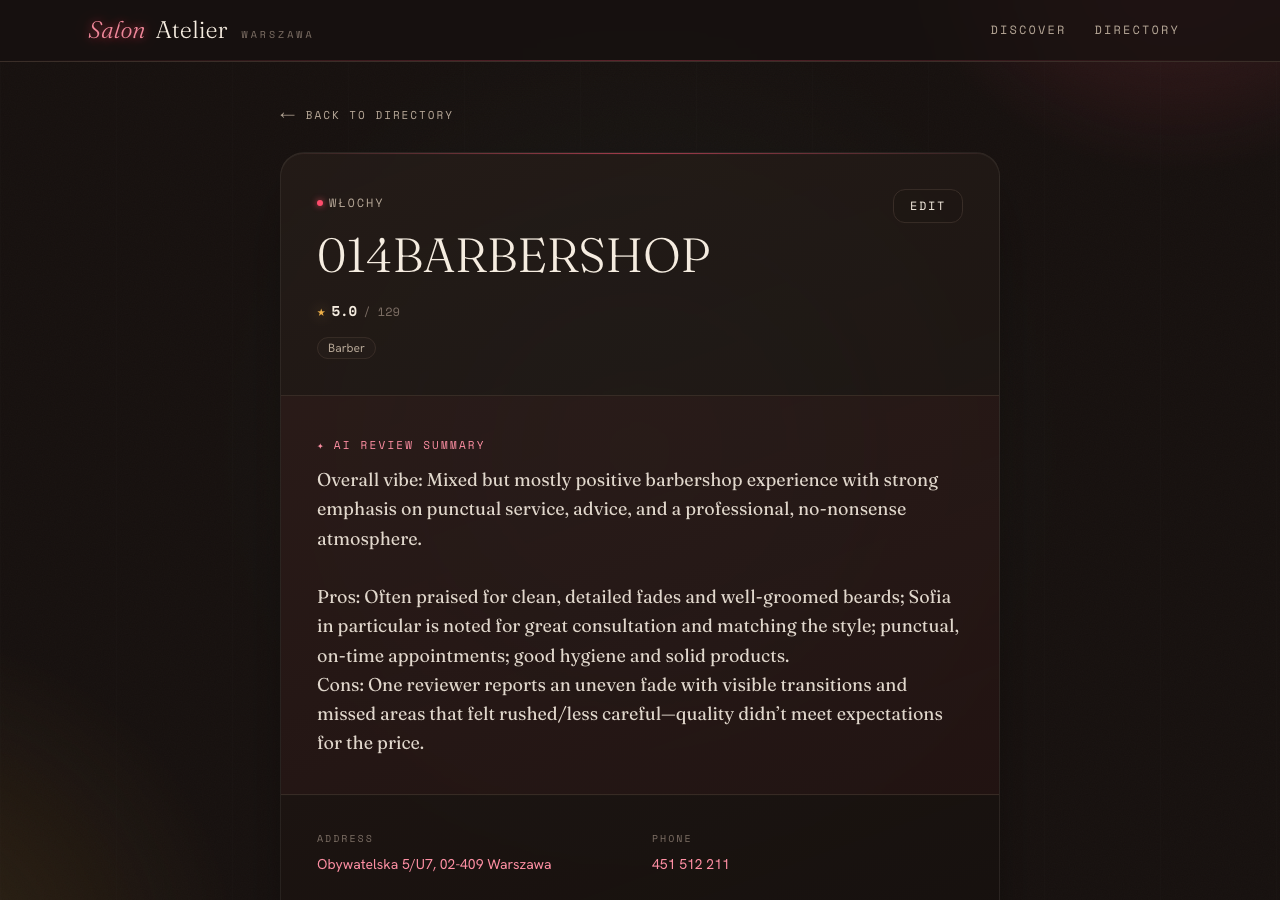
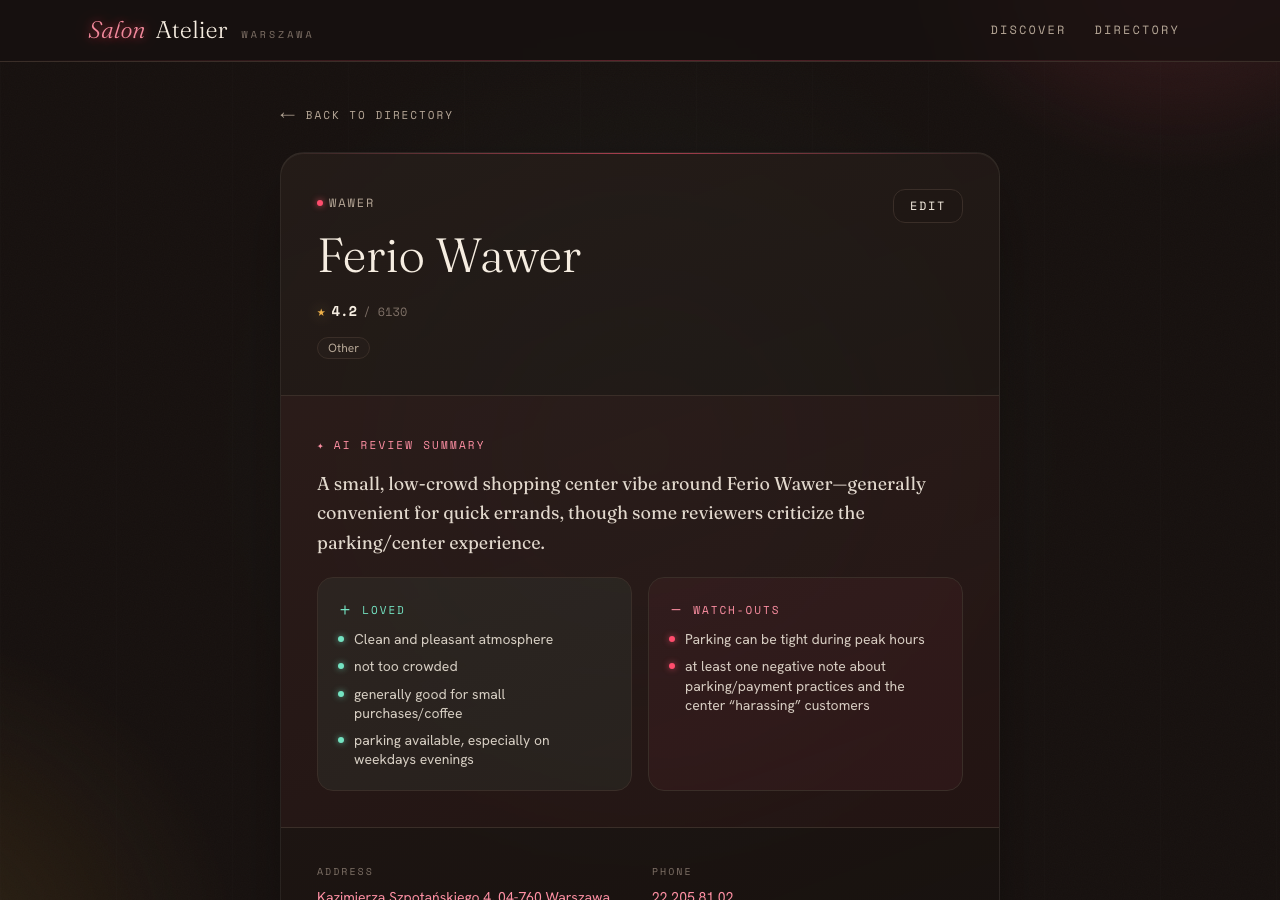
tiles fixed and pros and cons redone

diff --git a/frontend/components/ReviewSummary.tsx b/frontend/components/ReviewSummary.tsx
@@ -1,0 +1,77 @@
+import { parseReviewSummary } from "@/lib/reviewSummary";
+
+/**
+ * The AI review summary block on the detail page: a one-line vibe, then pros and
+ * cons side by side, colour-coded (mint for pros, rose for cons) so they read at
+ * a glance. Falls back to plain prose when the summary has no clear structure.
+ */
+export function ReviewSummary({ text }: { text: string }) {
+  const { vibe, pros, cons } = parseReviewSummary(text);
+  const hasColumns = pros.length > 0 || cons.length > 0;
+
+  return (
+    <section className="border-b border-line/50 bg-neon/[0.04] p-7 sm:p-9">
+      <p className="mb-4 inline-flex items-center gap-2 font-mono text-[11px] uppercase tracking-[0.2em] text-neon-soft">
+        <span aria-hidden>✦</span> AI review summary
+      </p>
+
+      {vibe && (
+        <p className="mb-5 font-display text-lg leading-relaxed text-porcelain/90">{vibe}</p>
+      )}
+
+      {hasColumns && (
+        <div className="grid grid-cols-1 gap-4 sm:grid-cols-2">
+          <ProsConsCard tone="pros" items={pros} />
+          <ProsConsCard tone="cons" items={cons} />
+        </div>
+      )}
+    </section>
+  );
+}
+
+const TONES = {
+  pros: {
+    label: "Loved",
+    glyph: "＋",
+    ring: "border-mint/30 bg-mint/[0.05]",
+    accent: "text-mint",
+    marker: "bg-mint shadow-[0_0_6px_rgba(116,227,194,0.7)]",
+    empty: "No standout positives mentioned.",
+  },
+  cons: {
+    label: "Watch-outs",
+    glyph: "－",
+    ring: "border-neon/30 bg-neon/[0.05]",
+    accent: "text-neon-soft",
+    marker: "bg-neon shadow-[0_0_6px_rgba(255,77,109,0.7)]",
+    empty: "No notable complaints mentioned.",
+  },
+} as const;
+
+function ProsConsCard({ tone, items }: { tone: keyof typeof TONES; items: string[] }) {
+  const t = TONES[tone];
+  return (
+    <div className={`rounded-2xl border p-5 ${t.ring}`}>
+      <p
+        className={`mb-3 inline-flex items-center gap-2 font-mono text-[11px] uppercase tracking-[0.18em] ${t.accent}`}
+      >
+        <span aria-hidden className="text-sm leading-none">
+          {t.glyph}
+        </span>
+        {t.label}
+      </p>
+      {items.length === 0 ? (
+        <p className="text-sm text-ash-dim">{t.empty}</p>
+      ) : (
+        <ul className="flex flex-col gap-2">
+          {items.map((item, i) => (
+            <li key={i} className="flex gap-2.5 text-sm leading-snug text-porcelain/85">
+              <span aria-hidden className={`mt-1.5 h-1.5 w-1.5 shrink-0 rounded-full ${t.marker}`} />
+              <span>{item}</span>
+            </li>
+          ))}
+        </ul>
+      )}
+    </div>
+  );
+}

diff --git a/frontend/lib/reviewSummary.ts b/frontend/lib/reviewSummary.ts
@@ -1,0 +1,70 @@
+/**
+ * Parses an AI review summary string into a one-line vibe + pros/cons lists.
+ *
+ * The summarizer emits a short blurb that usually contains an "Overall vibe"
+ * line followed by labelled "Pros:" / "Cons:" sections (sometimes markdown-bold,
+ * sometimes semicolon-separated). This parser is deliberately tolerant: when it
+ * can't find the labels it returns the whole text as the vibe, so the UI always
+ * has something sensible to show rather than breaking on a messy summary.
+ */
+
+export interface ParsedReview {
+  vibe: string;
+  pros: string[];
+  cons: string[];
+}
+
+const VIBE_LABEL = /(?:overall\s+)?vibe\s*:/i;
+const PROS_LABEL = /pros\s*:/i;
+const CONS_LABEL = /cons\s*:/i;
+
+/** Split a labelled section into individual bullet points. */
+function splitItems(chunk: string): string[] {
+  const c = chunk.trim();
+  if (!c) return [];
+  // Prefer explicit separators (the summarizer mostly uses semicolons).
+  let parts = c.split(/[;\n•]+/);
+  if (parts.length === 1) {
+    // A single chunk: a comma list of 3+ becomes bullets; else keep sentences.
+    const byComma = c.split(/,\s+/);
+    parts = byComma.length >= 3 ? byComma : c.split(/(?<=[.!?])\s+/);
+  }
+  return parts
+    .map((p) => p.replace(/^[\s\-–—*•]+/, "").replace(/[.;,\s]+$/, "").trim())
+    .filter((p) => p.length > 1);
+}
+
+/** Remove a leading "Vibe:" / "Overall vibe:" label and stray punctuation. */
+function stripVibeLabel(s: string): string {
+  return s.replace(VIBE_LABEL, "").replace(/^[\s\-–—:*]+/, "").trim();
+}
+
+export function parseReviewSummary(raw: string): ParsedReview {
+  const text = raw.replace(/\*\*/g, "").replace(/\r/g, "").trim();
+
+  const prosMatch = text.match(PROS_LABEL);
+  const consMatch = text.match(CONS_LABEL);
+  const prosIdx = prosMatch?.index ?? -1;
+  const consIdx = consMatch?.index ?? -1;
+
+  // No structure we recognise — present the whole thing as the vibe.
+  if (prosIdx === -1 && consIdx === -1) {
+    return { vibe: stripVibeLabel(text), pros: [], cons: [] };
+  }
+
+  const sectionStarts = [prosIdx, consIdx].filter((i) => i >= 0);
+  const vibe = stripVibeLabel(text.slice(0, Math.min(...sectionStarts)).trim());
+
+  let pros: string[] = [];
+  let cons: string[] = [];
+  if (prosIdx >= 0) {
+    const end = consIdx > prosIdx ? consIdx : text.length;
+    pros = splitItems(text.slice(prosIdx + prosMatch![0].length, end));
+  }
+  if (consIdx >= 0) {
+    const end = prosIdx > consIdx ? prosIdx : text.length;
+    cons = splitItems(text.slice(consIdx + consMatch![0].length, end));
+  }
+
+  return { vibe, pros, cons };
+}

diff --git a/frontend/components/Masonry.tsx b/frontend/components/Masonry.tsx
@@ -1,0 +1,55 @@
+"use client";
+
+import { Children, useEffect, useState } from "react";
+
+/**
+ * Lightweight Pinterest-style masonry.
+ *
+ * Distributes children round-robin into N equal-width flex columns. Unlike CSS
+ * `columns`, items stay in **normal flow**, so transforms (hover lift, the
+ * staggered entrance animation) paint and hit-test correctly — CSS multicol
+ * mis-renders transformed/filtered children, leaving the card painted in one
+ * place but clickable in another.
+ *
+ * Column count is responsive (recomputed on resize). SSR and the first client
+ * render both use `columns.lg`, so there's no hydration mismatch; the count is
+ * corrected on mount.
+ */
+export function Masonry({
+  children,
+  gap = "gap-4",
+  columns = { base: 1, sm: 2, lg: 3 },
+}: {
+  children: React.ReactNode;
+  gap?: string;
+  columns?: { base: number; sm: number; lg: number };
+}) {
+  const { base, sm, lg } = columns;
+  const [cols, setCols] = useState(lg);
+
+  useEffect(() => {
+    const compute = () => {
+      const w = window.innerWidth;
+      setCols(w >= 1024 ? lg : w >= 640 ? sm : base);
+    };
+    compute();
+    window.addEventListener("resize", compute);
+    return () => window.removeEventListener("resize", compute);
+  }, [base, sm, lg]);
+
+  const items = Children.toArray(children);
+  // Never leave empty columns when there are fewer items than columns.
+  const colCount = Math.max(1, Math.min(cols, items.length || 1));
+  const buckets: React.ReactNode[][] = Array.from({ length: colCount }, () => []);
+  items.forEach((child, i) => buckets[i % colCount].push(child));
+
+  return (
+    <div className={`flex items-start ${gap}`}>
+      {buckets.map((bucket, i) => (
+        <div key={i} className={`flex min-w-0 flex-1 flex-col ${gap}`}>
+          {bucket}
+        </div>
+      ))}
+    </div>
+  );
+}

diff --git a/frontend/__tests__/reviewSummary.test.ts b/frontend/__tests__/reviewSummary.test.ts
@@ -1,0 +1,32 @@
+import { describe, expect, it } from "vitest";
+
+import { parseReviewSummary } from "@/lib/reviewSummary";
+
+describe("parseReviewSummary", () => {
+  it("splits the synthetic seed format (comma list) into vibe + pros + cons", () => {
+    const { vibe, pros, cons } = parseReviewSummary(
+      "Cosy nail bar. Pros: long-lasting hybrids, creative nail art, spotless tools. " +
+        "Cons: limited parking nearby.",
+    );
+    expect(vibe).toBe("Cosy nail bar.");
+    expect(pros).toEqual(["long-lasting hybrids", "creative nail art", "spotless tools"]);
+    expect(cons).toEqual(["limited parking nearby"]);
+  });
+
+  it("handles markdown bold and semicolon-separated real-data summaries", () => {
+    const { vibe, pros, cons } = parseReviewSummary(
+      "Overall vibe: upbeat, professional barber. **Pros:** skilled barbers; great fades; " +
+        "good hygiene **Cons:** cash only; small waiting area",
+    );
+    expect(vibe).toBe("upbeat, professional barber.");
+    expect(pros).toEqual(["skilled barbers", "great fades", "good hygiene"]);
+    expect(cons).toEqual(["cash only", "small waiting area"]);
+  });
+
+  it("falls back to plain prose when there are no Pros/Cons labels", () => {
+    const { vibe, pros, cons } = parseReviewSummary("A small, low-crowd spot, convenient for errands.");
+    expect(vibe).toBe("A small, low-crowd spot, convenient for errands.");
+    expect(pros).toEqual([]);
+    expect(cons).toEqual([]);
+  });
+});

diff --git a/frontend/components/SalonDetailView.tsx b/frontend/components/SalonDetailView.tsx
@@ -6,6 +6,7 @@ import useSWR from "swr";
 
 import { EditSalonForm } from "@/components/EditSalonForm";
 import { RatingStars } from "@/components/RatingStars";
+import { ReviewSummary } from "@/components/ReviewSummary";
 import { ServiceTags } from "@/components/ServiceTags";
 import { StateMessage } from "@/components/StateMessage";
 import { ApiError, getSalon } from "@/lib/api";
@@ -96,16 +97,7 @@ export function SalonDetailView({ salonId }: { salonId: number }) {
           <ServiceTags services={salon.services} max={20} />
         </header>
 
-        {salon.review_summary && (
-          <section className="border-b border-line/50 bg-neon/[0.04] p-7 sm:p-9">
-            <p className="mb-3 inline-flex items-center gap-2 font-mono text-[11px] uppercase tracking-[0.2em] text-neon-soft">
-              <span aria-hidden>✦</span> AI review summary
-            </p>
-            <p className="whitespace-pre-line font-display text-lg leading-relaxed text-porcelain/90">
-              {salon.review_summary}
-            </p>
-          </section>
-        )}
+        {salon.review_summary && <ReviewSummary text={salon.review_summary} />}
 
         <dl className="grid grid-cols-1 gap-6 p-7 sm:grid-cols-2 sm:p-9">
           <Field label="Address">

diff --git a/frontend/components/SearchView.tsx b/frontend/components/SearchView.tsx
@@ -4,6 +4,7 @@ import Link from "next/link";
 import { useSearchParams } from "next/navigation";
 import useSWR from "swr";
 
+import { Masonry } from "@/components/Masonry";
 import { ModeBadge } from "@/components/ModeBadge";
 import { PromptSearch } from "@/components/PromptSearch";
 import { SalonTile } from "@/components/SalonTile";
@@ -72,7 +73,7 @@ export function SearchView() {
                 description="Try rephrasing, or browse the full directory."
               />
             ) : (
-              <div className="grid grid-cols-1 gap-5 lg:grid-cols-2">
+              <Masonry gap="gap-5" columns={{ base: 1, sm: 1, lg: 2 }}>
                 {data.items.map((salon, i) => (
                   <div key={salon.id} className="rise" style={{ animationDelay: `${i * 60}ms` }}>
                     <SalonTile
@@ -83,7 +84,7 @@ export function SearchView() {
                     />
                   </div>
                 ))}
-              </div>
+              </Masonry>
             )}
           </>
         )}

diff --git a/frontend/components/SalonBrowser.tsx b/frontend/components/SalonBrowser.tsx
@@ -4,6 +4,7 @@ import { usePathname, useRouter, useSearchParams } from "next/navigation";
 import useSWR from "swr";
 
 import { FilterBar } from "@/components/FilterBar";
+import { Masonry } from "@/components/Masonry";
 import { Pagination } from "@/components/Pagination";
 import { SalonCard } from "@/components/SalonCard";
 import { StateMessage } from "@/components/StateMessage";
@@ -108,13 +109,14 @@ function BrowseResults({
   }
   return (
     <>
-      <div className="grid grid-cols-1 gap-4 sm:grid-cols-2 lg:grid-cols-3">
+      {/* Pinterest-style masonry: tiles keep their natural height and stack. */}
+      <Masonry gap="gap-4" columns={{ base: 1, sm: 2, lg: 3 }}>
         {state.data.items.map((salon, i) => (
           <div key={salon.id} className="rise" style={{ animationDelay: `${i * 45}ms` }}>
             <SalonCard salon={salon} />
           </div>
         ))}
-      </div>
+      </Masonry>
       <Pagination
         total={state.data.total}
         limit={state.data.limit}

diff --git a/README.md b/README.md
@@ -88,7 +88,7 @@ The committed seed is realistic **synthetic** data so the app runs offline.
 To use real salons and live semantic search, add keys to `.env`:
 
 ```bash
-OPENAI_API_KEY=sk-...          # enables LLM enrichment + semantic search
+OPENAI_API_KEY=...          # enables LLM enrichment + semantic search
 GOOGLE_MAPS_API_KEY=...        # enables live collection from Google Places
 ```
 
